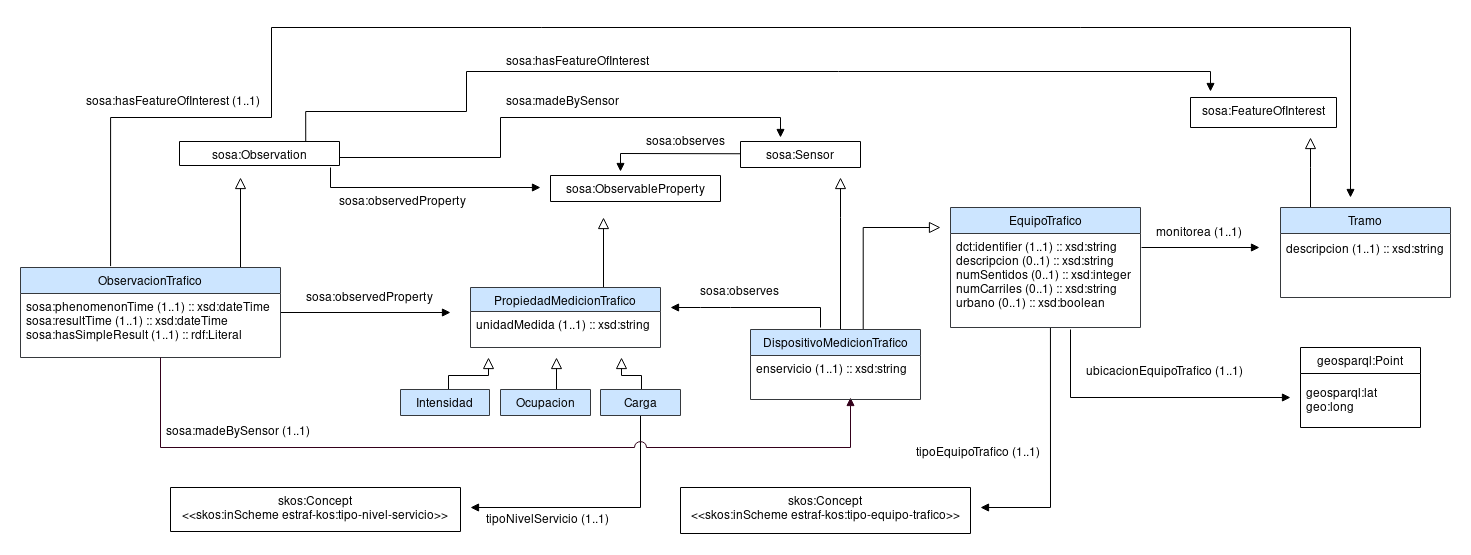
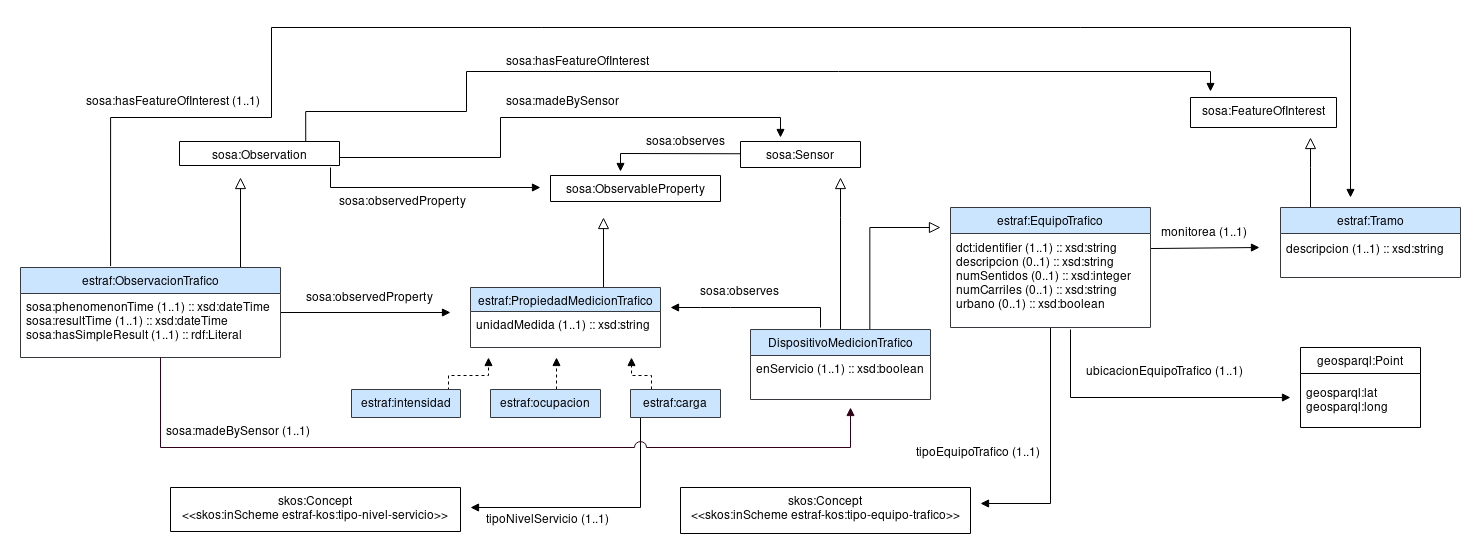
error long; actualizacion nombre diagramas @es;

diff --git a/OnToology/Ontology/trafico.owl/documentation/sections/description-es.html b/OnToology/Ontology/trafico.owl/documentation/sections/description-es.html
@@ -4,7 +4,7 @@
 	<!-- Comienzo explicación -->
     <p>La Figura 1 muestra las clases y propiedades del vocabulario de tráfico. El principal objetivo de este vocabulario es permitir la representación de los equipos de tráfico así como de las incidencias.</p>
 
-    <div><center><img src="resources/images/trafico-lite-20200406-19.png" alt="Diagrama del vocabulario de tráfico de la iniciativas Ciudades Abiertas"/><figcaption>Figura 1. - Vocabulario para la representación de datos sobre el tráfico de vehículos a motor</figcaption></center></div>
+    <div><center><img src="resources/images/ontologia-trafico.png" alt="Diagrama del vocabulario de tráfico de la iniciativas Ciudades Abiertas"/><figcaption>Figura 1. - Vocabulario para la representación de datos sobre el tráfico de vehículos a motor</figcaption></center></div>
 
     <p>Para representar los equipos de control se ha creado el concepto <a href="#EquipoTrafico">estraf:EquipoTrafico</a> que debe tener asociado un <a href="#tipoEquipoTrafico">estraf:tipoEquipoTrafico</a> que se relaciona con la taxonomía <a href="http://vocab.linkeddata.es/datosabiertos/kos/transporte/trafico/tipo-equipo-trafico">estraf-kos:tipo-equipo-trafico</a>. Tiene como propiedades un identificador del equipo <a href="http://purl.org/dc/terms/identifier" >dct:identifier</a>, una descripción <a href="#descripcion">estraf:descripcion</a>, el número de sentidos a los que sirve <a href="#numSentidos" >estraf#numSentidos</a>, el número de carriles <a href="#numeroCarriles">estraf:numCarriles</a> y si es urbano o no <a href="#urbano" >estraf:urbano</a>.</p>
 
@@ -16,7 +16,7 @@
 
     <p>Para los dispositivos de medición de tráfico se ha creado la clase <a href="#DispositivoMedicionTrafico">estraf:DispositivoMedicionTrafico</a> que es a su vez una subclase de <a href="http://www.w3.org/ns/sosa/Sensor">sosa:Sensor</a> y que despliega el diagrama de relación con este vocabulario de descripción de dispositivos.</p>
 
-    <div><center><img src="resources/images/trafico-equipo-20200406.png" alt="Diagrama del Equipo de Tráfico y del Dispositivo de Medición de Tráfico como subclase de sosa:Sensor"/><figcaption>Figura 2. - Diagrama del Equipo de Tráfico y del Dispositivo de Medición de Tráfico como subclase de sosa:Sensor</figcaption></center></div>
+    <div><center><img src="resources/images/trafico-equipo.png" alt="Diagrama del Equipo de Tráfico y del Dispositivo de Medición de Tráfico como subclase de sosa:Sensor"/><figcaption>Figura 2. - Diagrama del Equipo de Tráfico y del Dispositivo de Medición de Tráfico como subclase de sosa:Sensor</figcaption></center></div>
 
     <p>La clase <a href="#DispositivoMedicionTrafico">estraf:DispositivoMedicionTrafico</a>, que es subclase de <a href="#EquipoTrafico">estraf:EquipoTrafico</a> y de <a href="http://www.w3.org/ns/sosa/Sensor">sosa:Sensor</a>, está observando (<a href="http://www.w3.org/ns/sosa/observes">sosa:observes</a>) la instancia de la clase creada <a href="#PropiedadMedicionTrafico">estraf:PropiedadMedicionTrafico</a> que es una subclase de <a href="http://www.w3.org/ns/sosa/ObservableProperty">sosa:ObservableProperty</a> donde se especifica la unidad medida por el dispositivo con la propiedad <a href="#unidadMedida">estraf:unidadMedida</a>. Además, <a href="#DispositivoMedicionTrafico" >estraf:DispositivoMedicionTrafico</a> tiene un atributo que indica si se encuentra en servicio o no, <a href="#enservicio" >estraf:enservicio</a></p>
 
@@ -28,7 +28,7 @@
 
     <!-- INCIDENCIA -->
     
-    <div><center><img src="resources/images/trafico-incidencia-20200401.png" alt="Diagrama de la Incidencia de Tráfico y su relación con el Tramo"/><figcaption>Figura 3. - Diagrama de la Incidencia de Tráfico y su relación con el Tramo</figcaption></center></div>
+    <div><center><img src="resources/images/trafico-incidencia.png" alt="Diagrama de la Incidencia de Tráfico y su relación con el Tramo"/><figcaption>Figura 3. - Diagrama de la Incidencia de Tráfico y su relación con el Tramo</figcaption></center></div>
 
     <p>El concepto principal de esta sección es la <a href="#Incidencia" >estraf:Incidencia</a> que se relaciona con <a href="#Tramo" >estraf:Tramo</a> a través de la propiedad <a href="#incidenciaEnTramo">estraf:incidenciaEnTramo</a>, con las coordenadas geográficas de <a href="http://www.opengis.net/doc/IS/geosparql/1.0#Point" >geosparql:Point</a> a traves de la propiedad <a href="#ubicacionIncidencia" >estraf:ubicacionIncidencia</a> y con la taxonomía <a href="http://vocab.linkeddata.es/datosabiertos/kos/transporte/trafico/tipo-incidencia">estraf-kos:tipo-incidencia</a> a través de la propiedad <a href="#tipoIncidencia" >estraf:tipoIncidencia</a>.</p>
     
